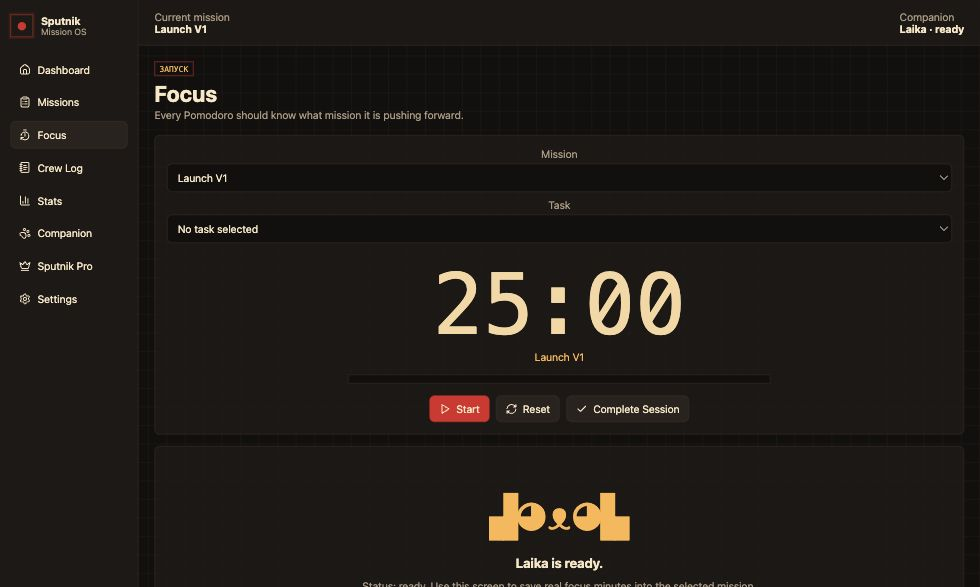
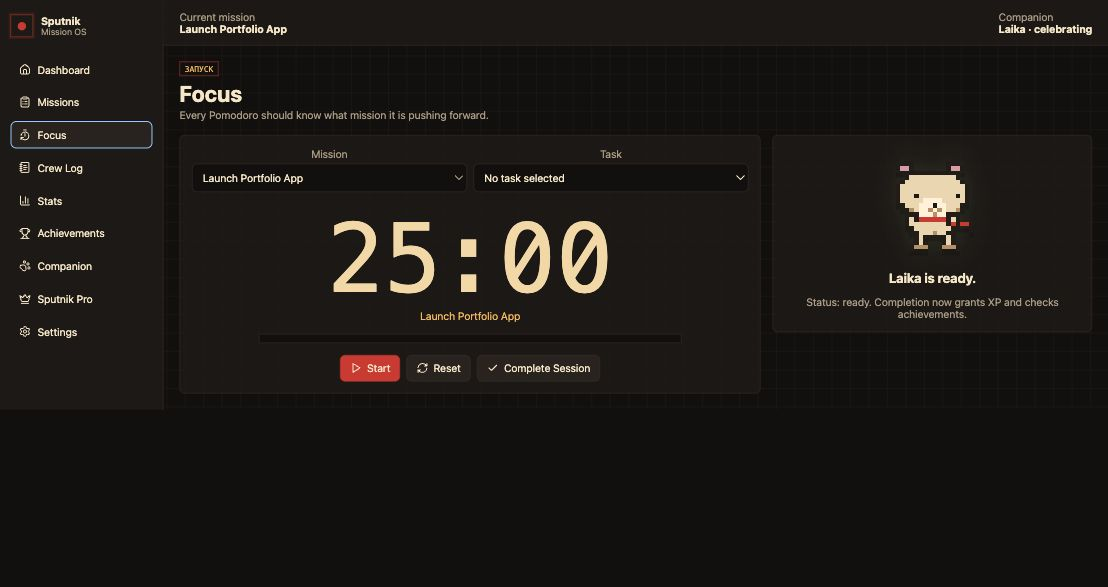
Update README screenshots

diff --git a/README.md b/README.md
@@ -20,7 +20,7 @@ Sputnik is a cozy mission-control productivity app for people who want a local, 
 The app is designed around a simple loop:
 
 ```txt
-Plan a mission -> Add tasks -> Focus -> Complete work -> Review progress -> Write notes
+Plan a mission -> Add tasks -> Focus -> Log notes -> Review stats -> Unlock rewards
 ```
 
 ## Product Flow
@@ -64,6 +64,40 @@ The timer is intentionally large and calm so the app can stay open beside your w
 Crew Log is a lightweight notes area for capturing context while the work is still fresh. Notes can be connected to missions so planning, progress, and reflections stay together.
 
 Use it for decisions, blockers, end-of-session notes, or quick project logs.
+
+### 5. Review Stats And Telemetry
+
+<p align="center">
+  <img src="docs/assets/screenshot-stats.jpg" alt="Sputnik stats screen" width="820">
+</p>
+
+Stats turns completed work into a readable activity picture. It shows total focus minutes, completed sessions, mission count, streaks, weekly focus bars, daily snapshots, and recent Mission OS activity.
+
+Use it to review momentum and understand how your planning habits are changing over time.
+
+### 6. Unlock Achievements
+
+<p align="center">
+  <img src="docs/assets/screenshot-achievements.jpg" alt="Sputnik achievements screen" width="820">
+</p>
+
+Achievements reward real local actions: creating missions, finishing focus sessions, writing logs, completing tasks, and activating the local Pro simulation. Progress is visible even before an achievement is fully unlocked.
+
+### 7. Grow Laika
+
+<p align="center">
+  <img src="docs/assets/screenshot-companion.jpg" alt="Sputnik companion screen" width="820">
+</p>
+
+Laika is Sputnik's companion system. Completed work grants XP, increases levels, changes mood, and unlocks or equips different skins. The companion screen shows current XP, level progress, mood, and available skins.
+
+### 8. Try Sputnik Pro Simulation
+
+<p align="center">
+  <img src="docs/assets/screenshot-pro.jpg" alt="Sputnik Pro simulation screen" width="820">
+</p>
+
+Sputnik Pro is a local-only simulation. It does not process payments or connect to a real billing service. In the app, it demonstrates how premium companion skins and a Pro achievement could unlock while staying fully offline.
 
 ## What Sputnik Includes
 
